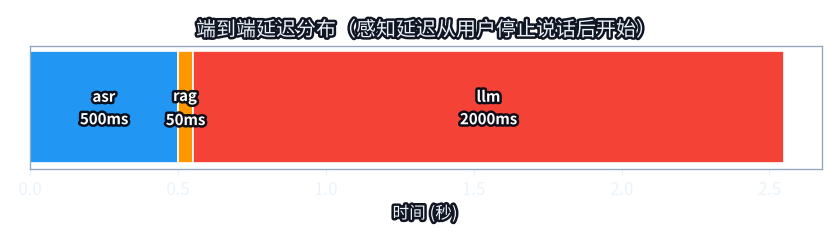
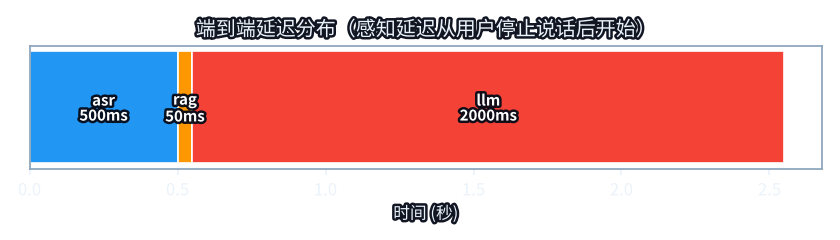
README: the English edition now has all 99 lessons
Claude-Session: https://claude.ai/code/session_01963iAiFYNzTqJyA1AXWfJB

diff --git a/README.md b/README.md
@@ -116,7 +116,7 @@ See [`OPENNESS.md`](docs/current/OPENNESS.md).
 glossed in English on first use; the library, tests and the research report are
 in English. The English edition of the course lives in its own repository,
 **[From a Sine Wave to Whisper](https://github.com/djzoom/from-sine-to-whisper)**
-(L01–L10 available, the rest in translation).
+— all 99 lessons, adapted for English-speaking readers.
 
 **Start here:** beginners → [`GETTING_STARTED`](docs/current/course/GETTING_STARTED.md) ·
 questions → [`FAQ`](docs/current/course/FAQ.md) ·
